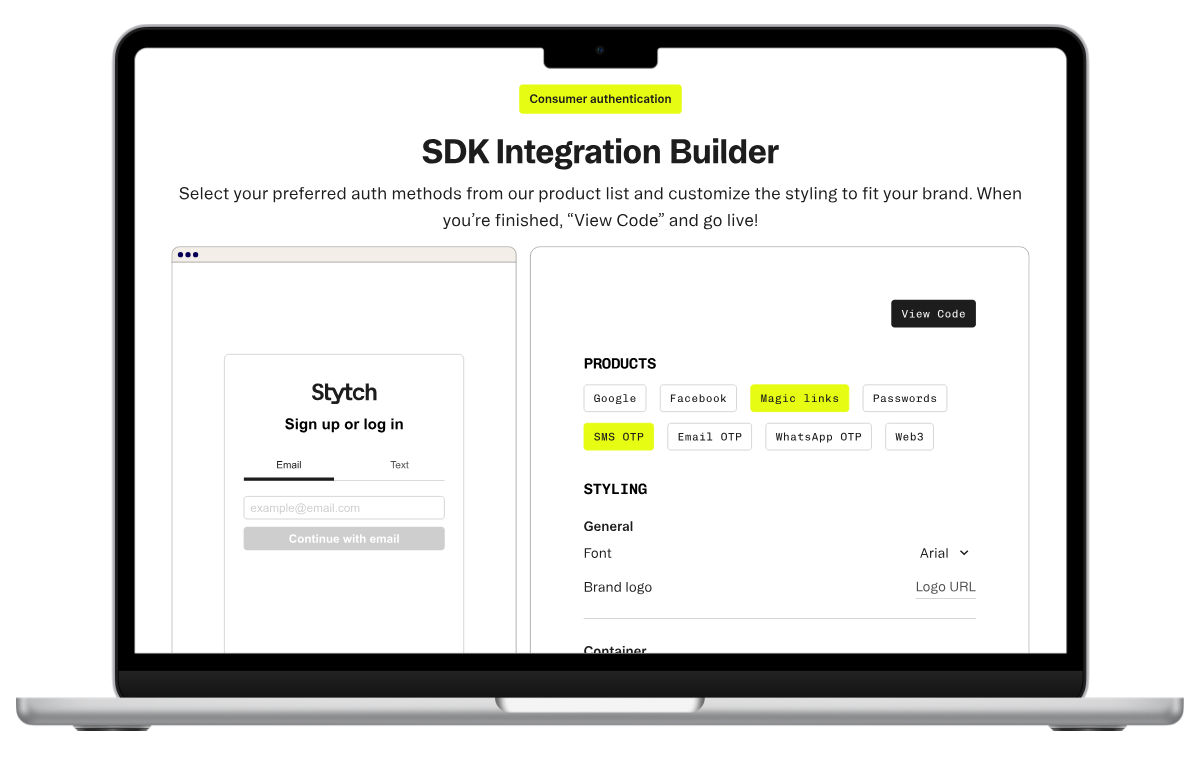
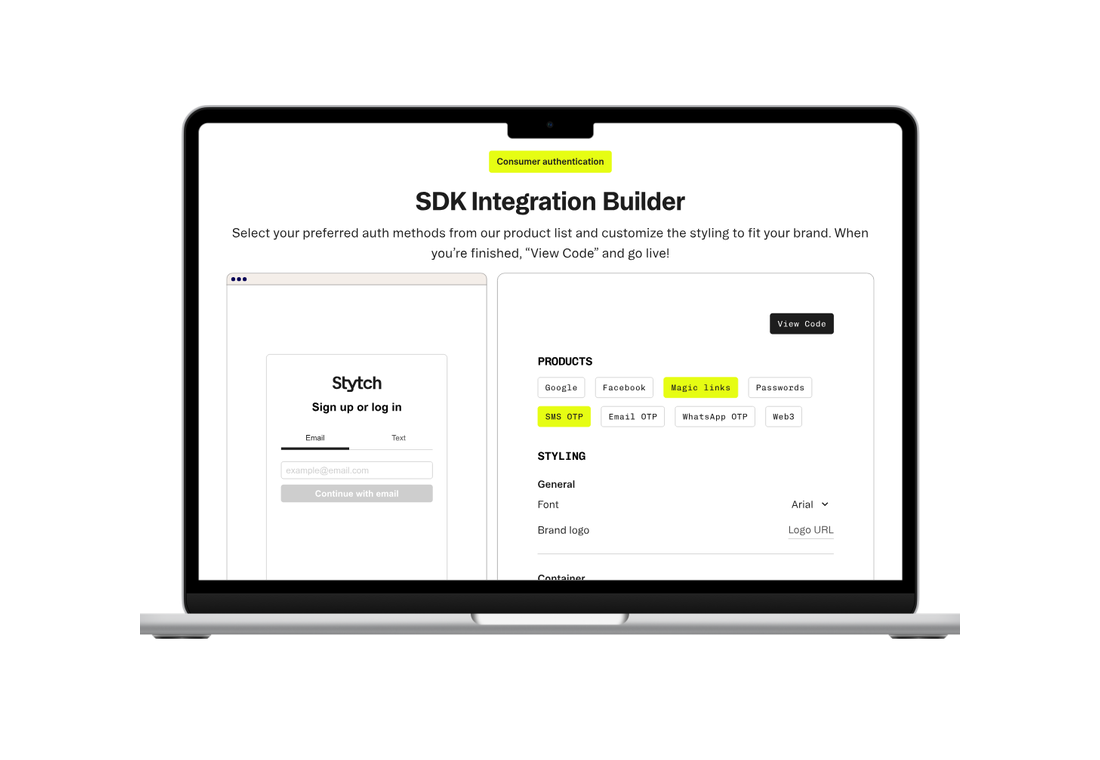
Shrink thumbnails further and normalize laptop size between decks
Measured each deck's laptop mock bezel in pixels directly (they
weren't quite the same size — Stytch's rendered ~4% smaller than
Agent Identity's) and scaled Stytch up to match before cropping, so
the two now appear at identical size. Composited each tightly-cropped
laptop onto a larger blank canvas rather than just expanding the
source crop bounds, since the raw screenshot didn't have enough
margin around the laptop to "shrink" it further without either
clipping into the header text above or requiring upscaling.

Changed region(s): [[0.0, 0.0303, 0.9891, 0.9684], [0.4636, 0.4539, 0.7727, 0.7263]]

diff --git a/index.html b/index.html
@@ -30,7 +30,7 @@
   .card:hover{border-color:var(--ink-45); box-shadow:0 12px 28px rgba(23,22,27,.08);}
   .card a{display:block; text-decoration:none; color:inherit;}
   .card-thumb{
-    display:block; width:100%; aspect-ratio:1200/785; object-fit:contain;
+    display:block; width:100%; aspect-ratio:1100/760; object-fit:contain;
     border-bottom:1px solid var(--line);
     background:#fff;
   }
